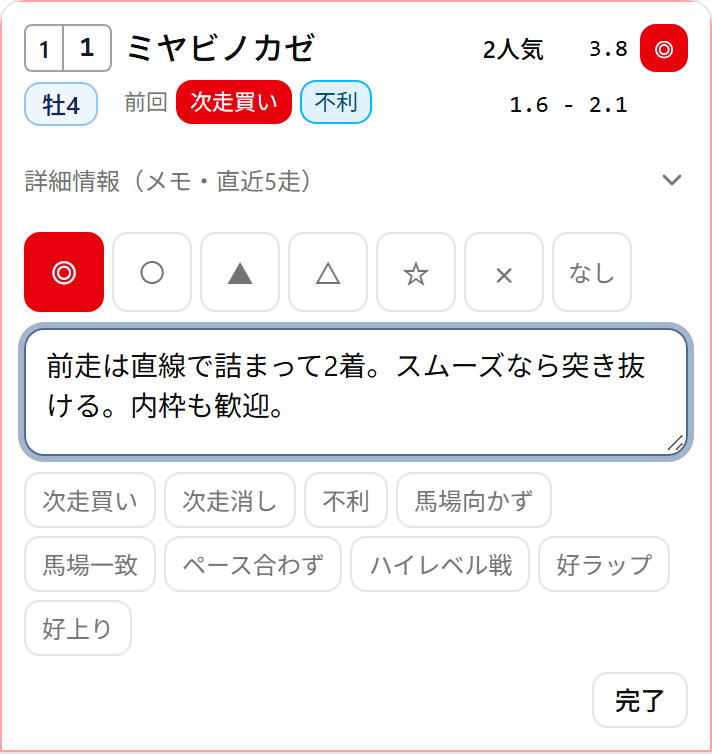
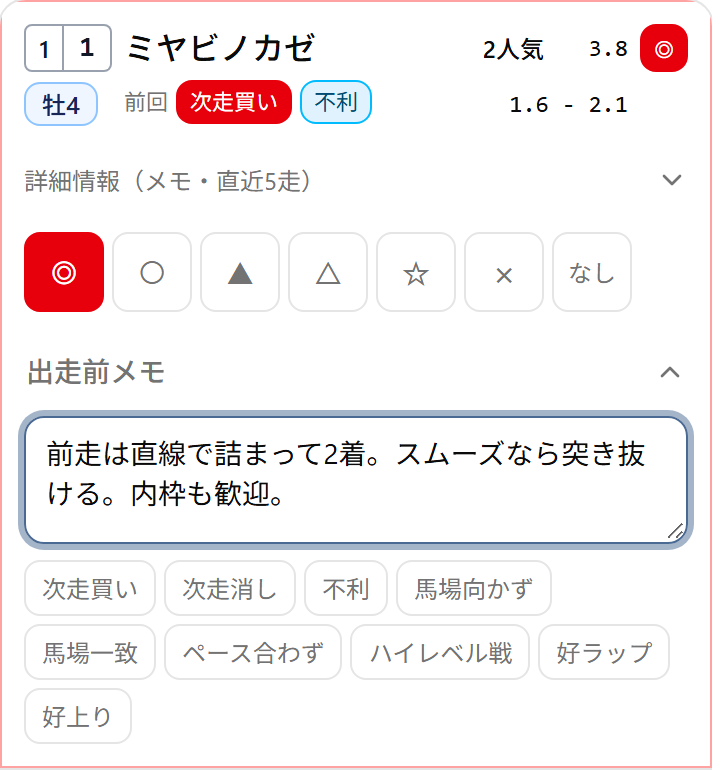
docs: 折りたたみの形に合わせて部品表・コメントを直し、紹介ページの画像を撮り直す

diff --git a/src/routes/races/[id]/preview/+page.svelte b/src/routes/races/[id]/preview/+page.svelte
@@ -539,7 +539,7 @@
 										/>
 									</div>
 
-									<!-- 書いたメモはそのまま出し、押すとその場で入力欄に替わる。種別の札（出走前）を付ける。
+									<!-- 書いたメモはそのまま出し、押すとその場で入力欄が開く（見出しで折りたためる）。種別の札（出走前）を付ける。
 									     無いと、すぐ上の「前回」の札の続きに読める。 -->
 									{#snippet memo()}
 										<EntryMemo kind="出走前" body={note.body} tags={note.tags} />

diff --git a/src/routes/races/[id]/+page.svelte b/src/routes/races/[id]/+page.svelte
@@ -441,7 +441,7 @@
 											</div>
 										{/if}
 
-										<!-- いま入力しているふりかえりのメモを、札付きでそのまま出す。押すとその場で入力欄に替わる。 -->
+										<!-- いま入力しているふりかえりのメモを、札付きでそのまま出す。押すとその場で入力欄が開く（見出しで折りたためる）。 -->
 										{#snippet memo()}
 											<EntryMemo kind="ふりかえり" body={review.body} tags={review.tags} />
 										{/snippet}

diff --git a/e2e/landing/shoot.ts b/e2e/landing/shoot.ts
@@ -66,6 +66,8 @@ const SHOTS: Shot[] = [
 			await waitForHydration(page);
 			const row = page.locator('#entry-01JLPENTRYTODAY00000000001');
 			await row.getByRole('button', { name: /出走前メモ/, expanded: false }).click();
+			// 押した見出しの上にマウスが残ると hover の面が写るので、外へ動かす。
+			await page.mouse.move(0, 0);
 		},
 		target: (page) => page.locator('#entry-01JLPENTRYTODAY00000000001')
 	},

diff --git a/docs/design-system.md b/docs/design-system.md
@@ -149,7 +149,7 @@ shadcn に無いので、`layout.css` の `:root` と `@theme inline` に shadcn
 | `MarkBadge` / `MarkPicker` | 予想印（◎ ○ ▲ △ ☆ ×）の表示と選択。`MarkPicker` の札の大きさと並びは [pages.md 4-3](./pages.md)。共有の画像（`utils/share-card.ts`）は画像の中にクラスが効かないので、印・枠・馬番・格の札の色を16進で写している。札の色を変えたら、そちらも変える |
 | `TagBadges` / `TagPicker` | メモの札の表示と選択 |
 | `EntryMemo` | 出走馬の行に出すメモ（種別の札・本文3行まで・メモの札）。`EntryNoteEditor` の `memo` に渡すとそのままボタンになり、押すとその場で書ける。予想画面・ふりかえり画面が使う（→ [pages.md 4-3](./pages.md)） |
-| `EntryNoteEditor` | 出走馬の行でメモを「その場で書く」部分。メモの表示（または「＋ 出走前メモ」）を押すと入力欄（`children`）に替わる。振る舞いは [pages.md 4-3](./pages.md) |
+| `EntryNoteEditor` | 出走馬の行でメモを「その場で書く」部分。見出しで開け閉めする折りたたみ。メモの表示（または「＋ 出走前メモ」）を押すと、そのボタンが見出し「{label} ⌃」になって入力欄（`children`）が開き、見出しを押すと折りたたまれる。振る舞いは [pages.md 4-3](./pages.md) |
 | `HorseProfileHeader` | 馬詳細の頭（生年月日・性別の札つきの名前の行・推しの★・父母・母父・所属と調教師）。★のほかはすべて左寄せ。色は第7章 |
 | `SexAgeBadge` | 出走馬の行の性齢の札（`牡4`）。馬詳細の性齢の札と同じ見た目。`label` は `sexAgeLabel` の結果で、null なら何も描かない。色は第7章 |
 | `JockeyTagBadges` / `JockeyTagPicker` | 騎手に付けた札（中山巧者など）の表示と選択。系統ごとの色の意味は無いので、塗らずにテーマカラーの薄い面と枠で出し、選んだ札には ✓ も付ける（色だけに頼らない）。選ぶ側は系統（得意な場・条件・乗り方・狙いどころ）ごとに段に分ける |
